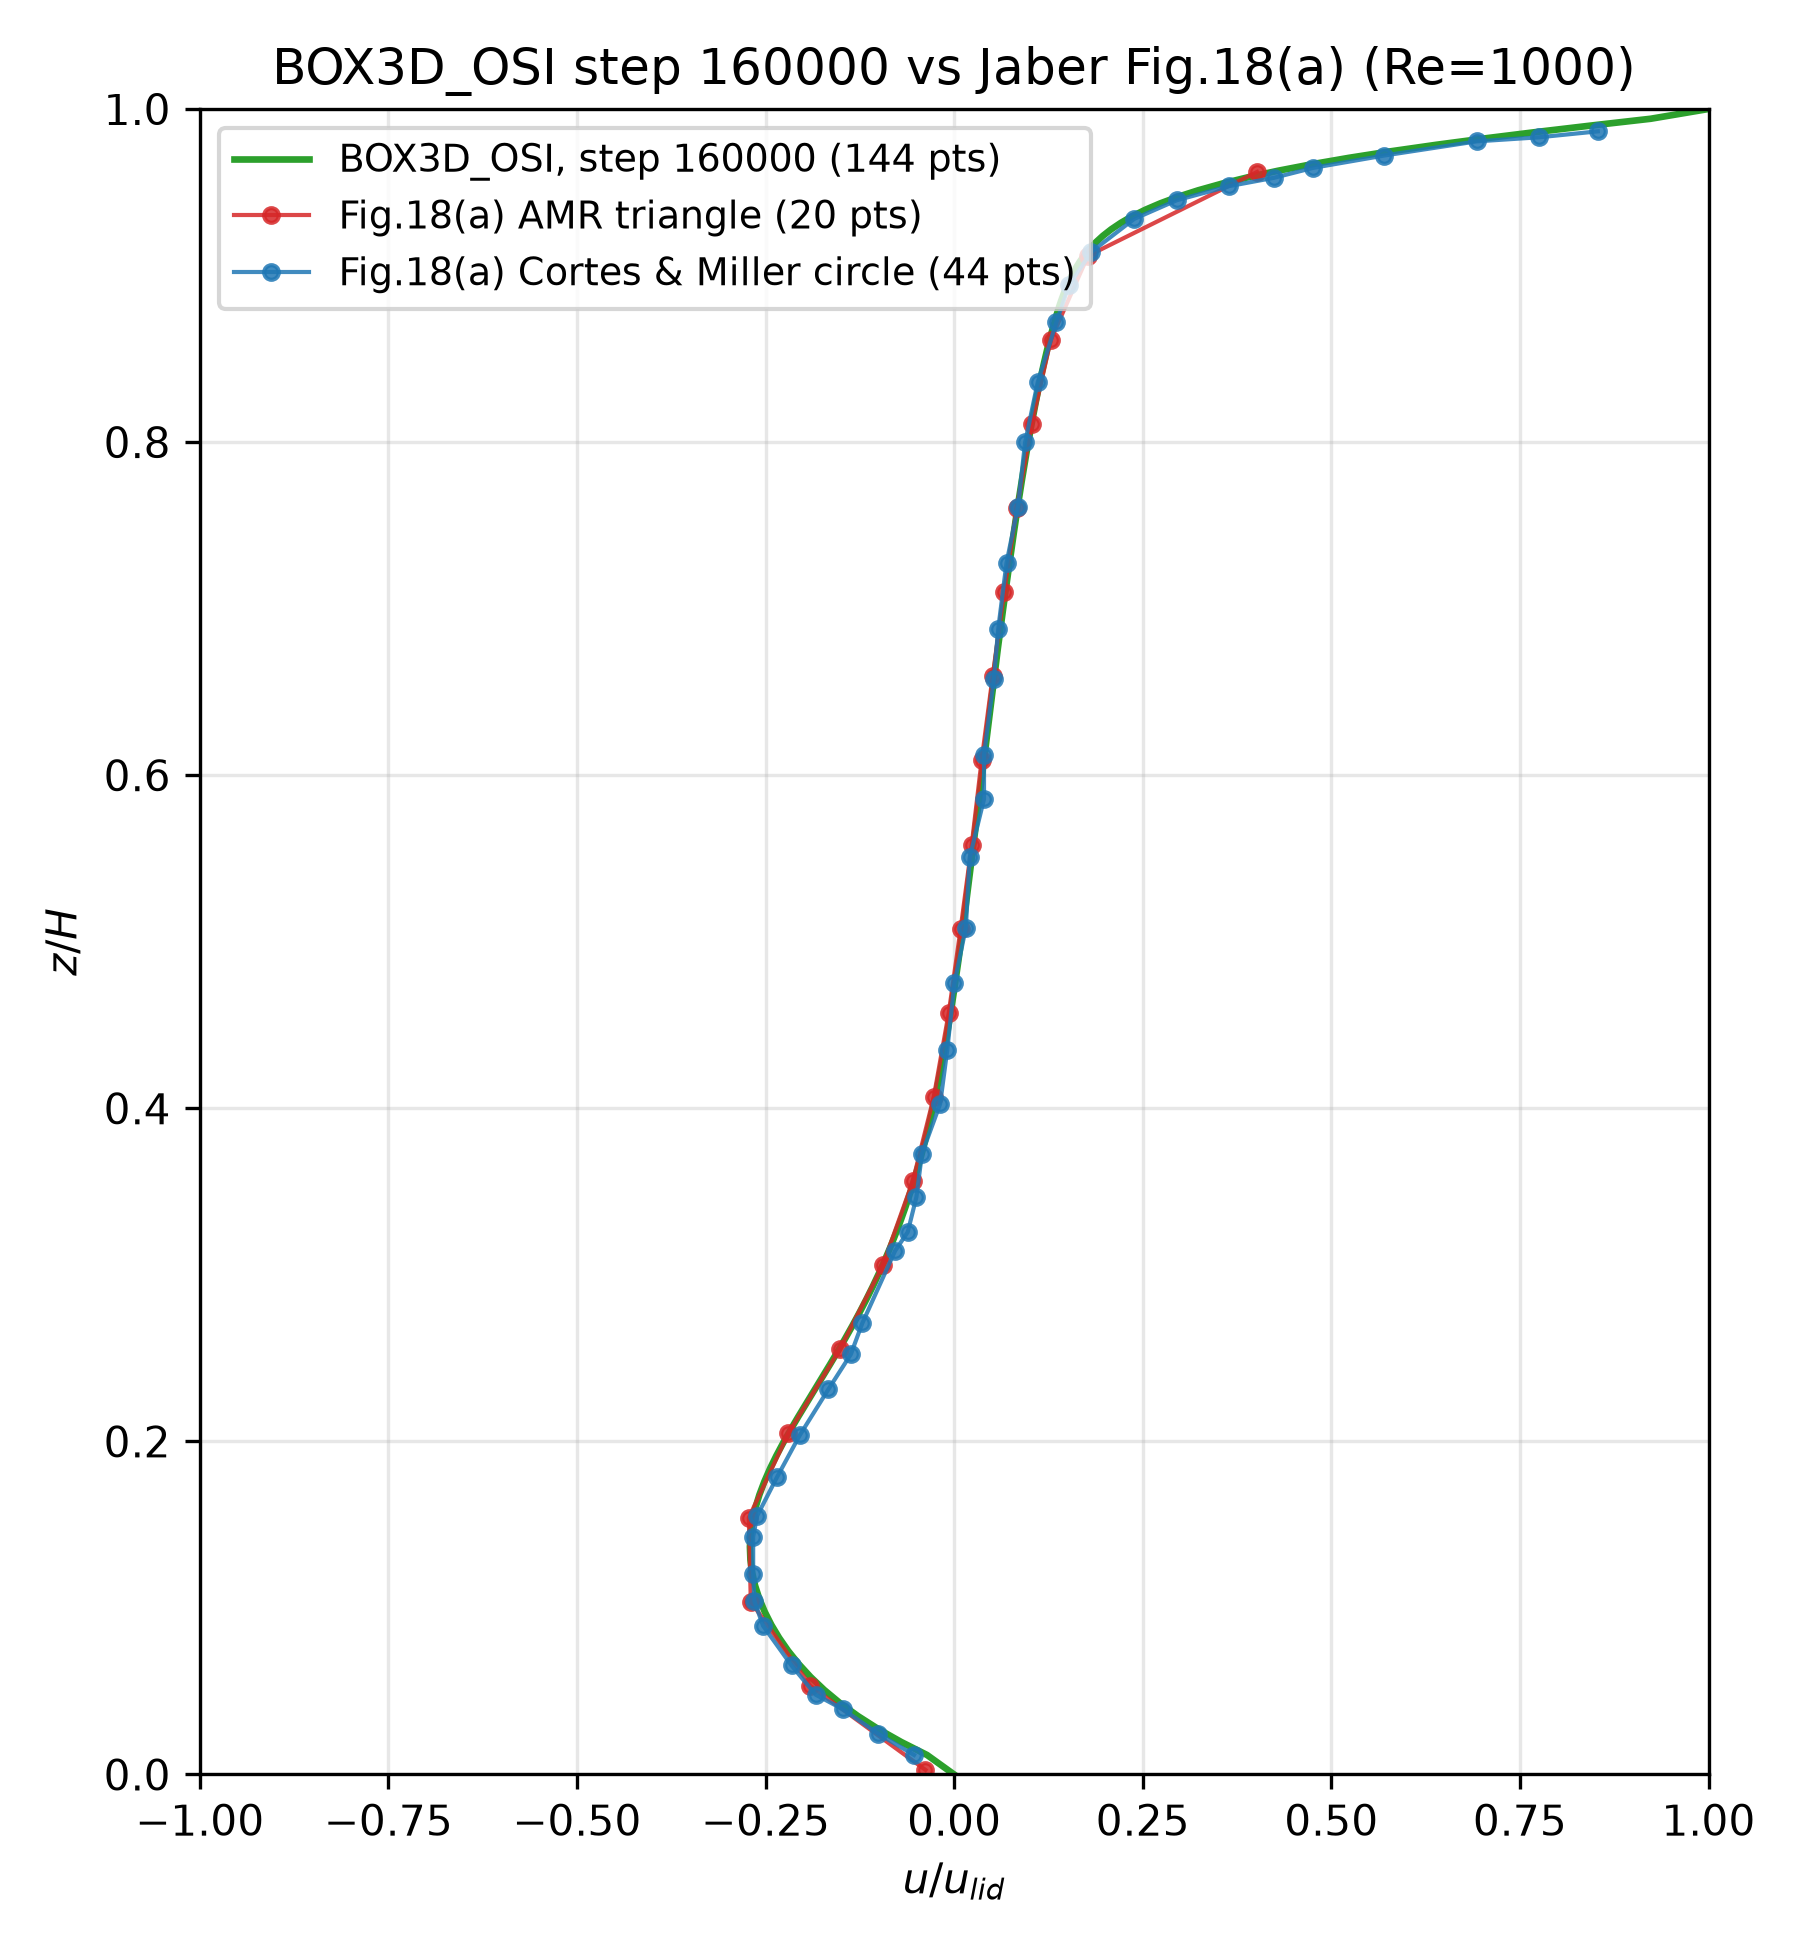
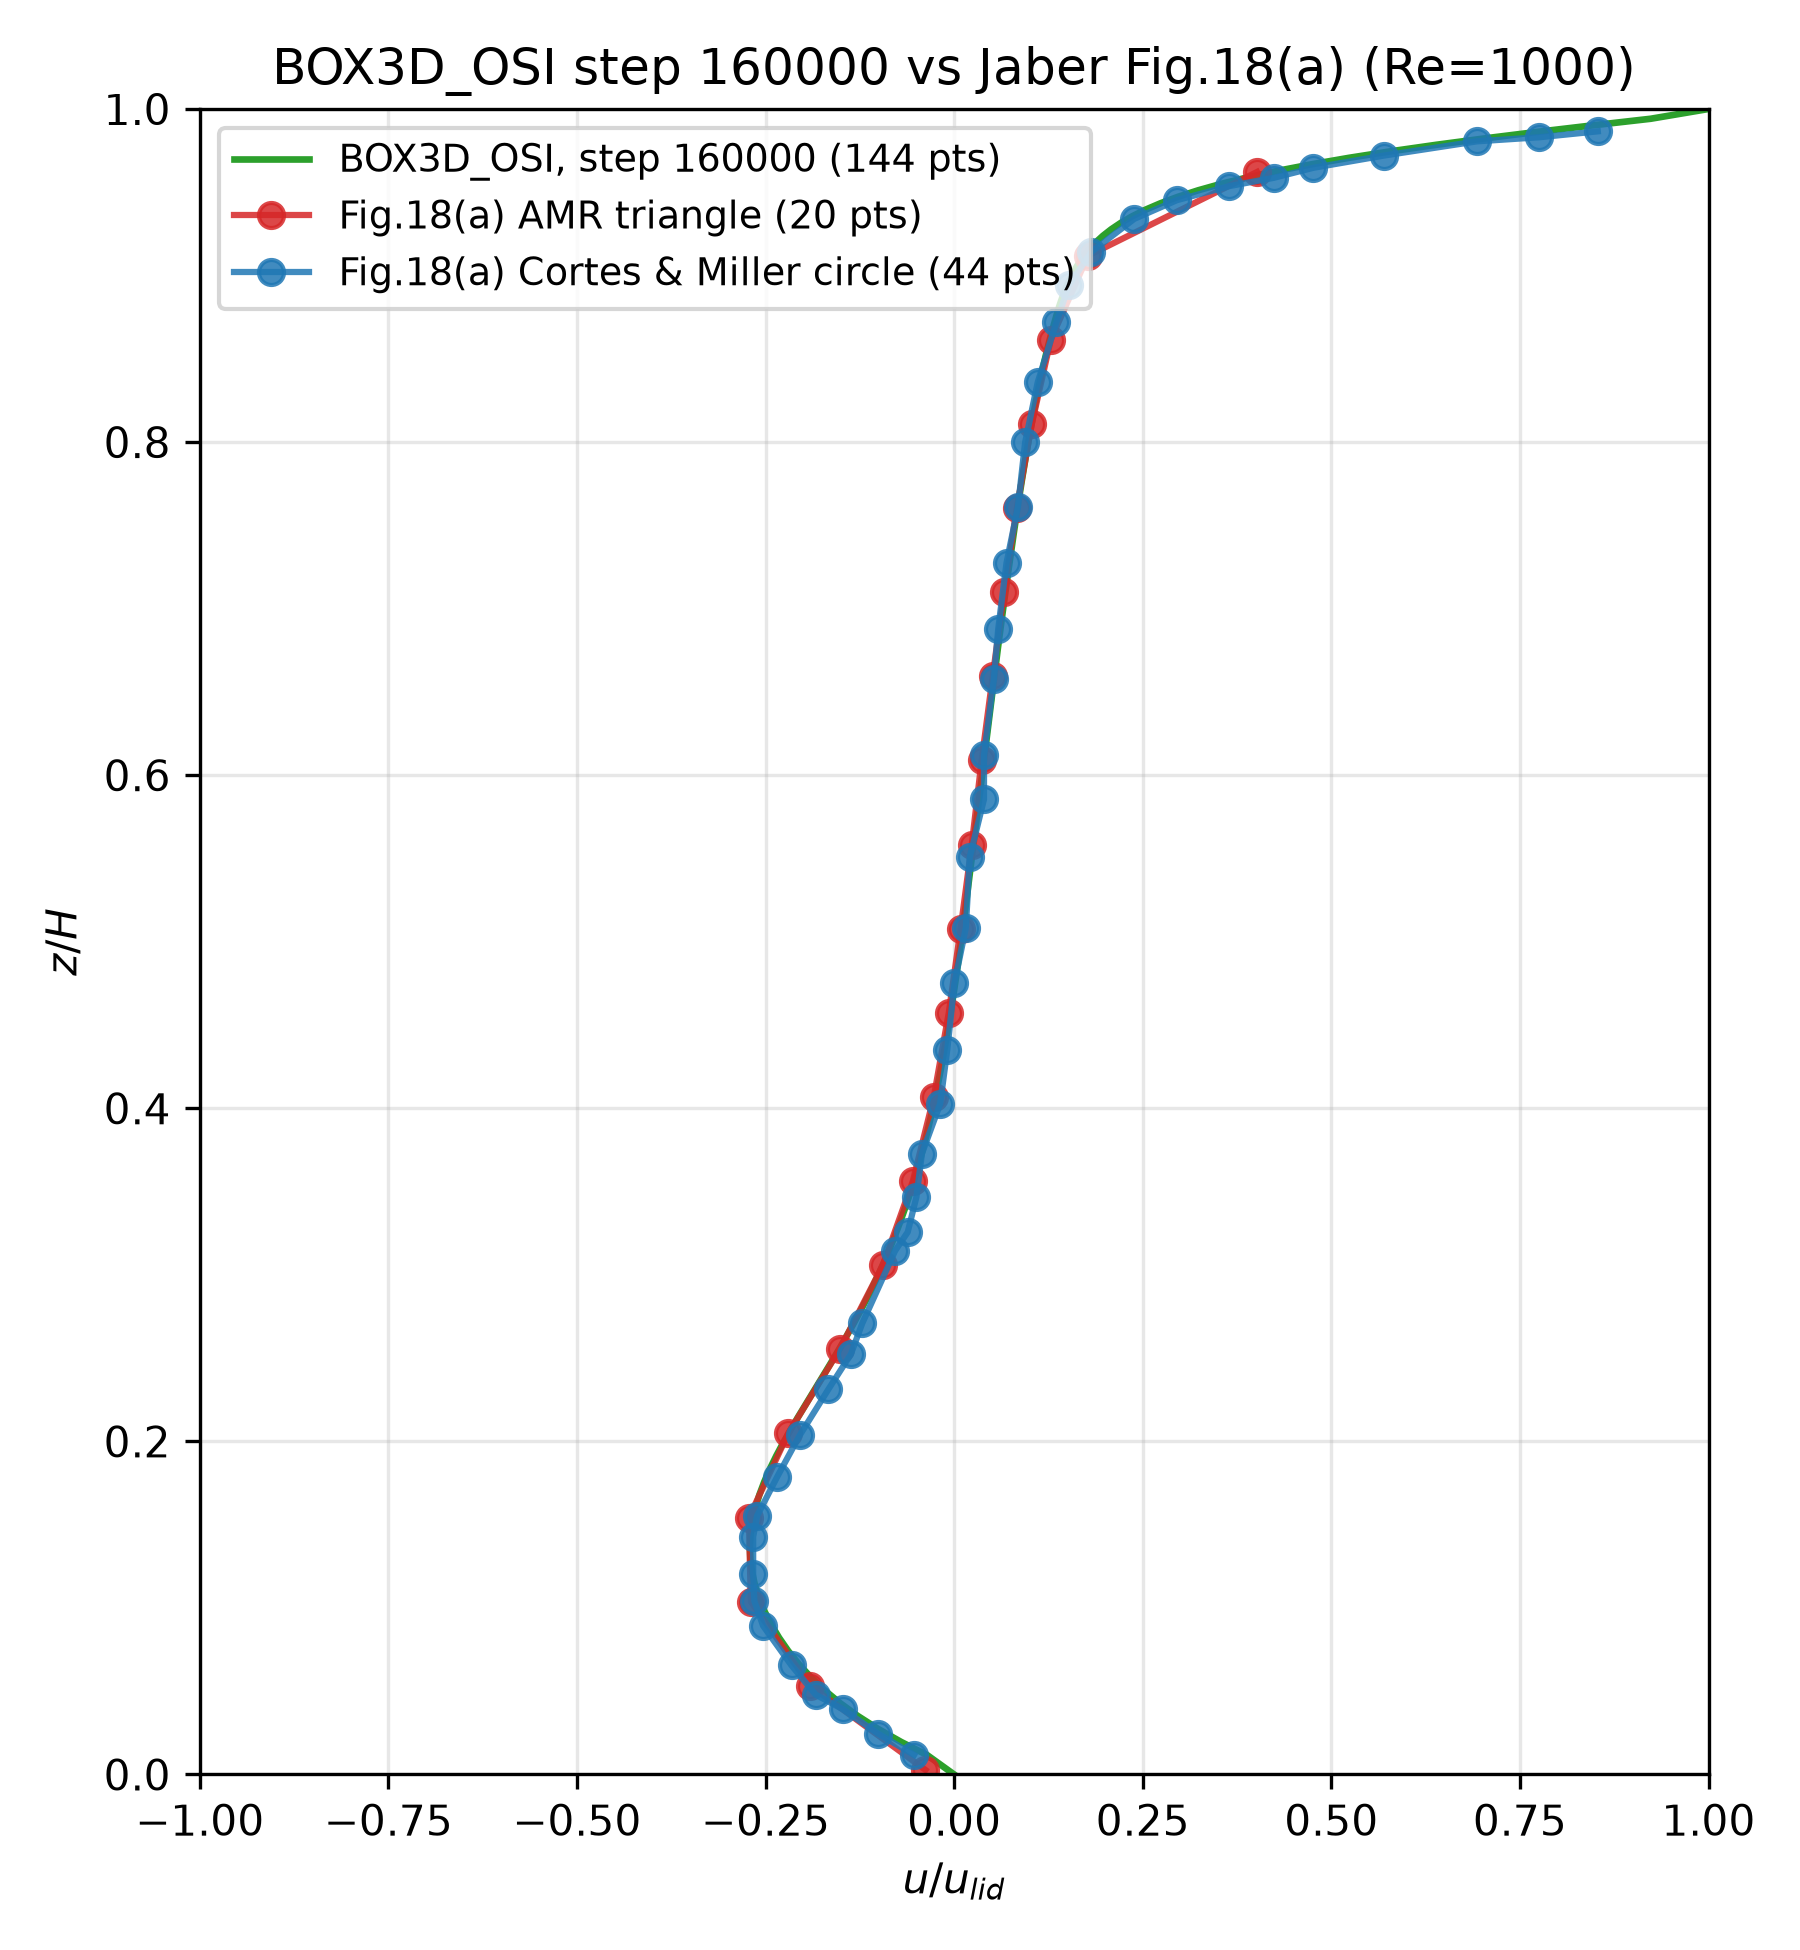
before codex

diff --git a/projects/3Dcases/Computing_performance_test/BOX3D_OSI/data_post_processing/plot_Re3200_3D_overlap_288000_fig18b.py b/projects/3Dcases/Computing_performance_test/BOX3D_OSI/data_post_processing/plot_Re3200_3D_overlap_288000_fig18b.py
@@ -116,8 +116,8 @@ for name, style in REFERENCE_STYLE.items():
     points = references[name]
     z_h, u_ulid = zip(*points)
     ax.plot(
-        u_ulid, z_h, linestyle="-", linewidth=0.9,
-        color=style["color"], marker=style["marker"], markersize=4.2,
+        u_ulid, z_h, linestyle="-", linewidth=1.4,
+        color=style["color"], marker=style["marker"], markersize=6.5,
         fillstyle=style["fillstyle"], markeredgewidth=1.0, alpha=0.9,
         label=f"{style['label']} ({len(points)} pts)",
     )

diff --git a/projects/3Dcases/Computing_performance_test/BOX3D_OSI/data_post_processing/plot_overlap_160000_fig18a.py b/projects/3Dcases/Computing_performance_test/BOX3D_OSI/data_post_processing/plot_overlap_160000_fig18a.py
@@ -76,7 +76,7 @@ for series, style in REF_STYLE.items():
         continue
     pts = refs[series]
     z_h, u_ul = zip(*pts)
-    ax.plot(u_ul, z_h, "-o", color=style["color"], ms=3.5, lw=1.0,
+    ax.plot(u_ul, z_h, "-o", color=style["color"], ms=6.0, lw=1.5,
             alpha=0.85, label=f"{style['label']} ({len(pts)} pts)")
 
 ax.set_xlabel(r"$u/u_{lid}$")

diff --git a/projects/3Dcases/Computing_performance_test/BOX3D_OSI/docs/MLUPS记录.md b/projects/3Dcases/Computing_performance_test/BOX3D_OSI/docs/MLUPS记录.md
@@ -25,13 +25,13 @@ job `586265` 完成 64 个 1000 步窗口（step 64000），总耗时为 5188.91
 `step... perf(s)` 窗口累加得到；总耗时累加的是 `total`，不是日志末尾包含
 初始化、plot 和 checkpoint 写出的 `Total Time`。MLUPS 取最后一个完整窗口的实测值。
 
-| 日志 | 模式 | Re | 步数范围 | MLUPS 窗口 | 碰撞模型 | 网格块大小 | 插值 | 平均 | 碰撞 | 迁移 | 通信 | 边界处理 | 总耗时 | `MLUPS_solv` | `MLUPS_total` |
-| --- | --- | ---: | ---: | ---: | --- | --- | ---: | ---: | ---: | ---: | ---: | ---: | ---: | ---: | ---: |
-| 596154 | OSI | 3200 | 1--96000 | 1000 | BGK | 32 to 128 | 873.25 | 395.72 | 2356.23 | 0.00 | 418.02 | 394.03 | 4563.99 | 1139.11 | 1109.46 |
-| 596532 | OSI | 3200 | 96001--192000 | 1000 | BGK | 32 to 128 | 911.75 | 399.99 | 2386.82 | 0.00 | 429.18 | 401.39 | 4669.21 | 1127.61 | 1091.74 |
-| 596888 | OSI | 3200 | 192001--288000 | 1000 | BGK | 32 to 128 | 903.29 | 407.27 | 2391.60 | 0.00 | 429.31 | 408.81 | 4680.71 | 1128.94 | 1088.70 |
-| 596890 | A-B | 1000 | 1--128000 | 3200 | BGK | 32 to 128 | 297.88 | 208.43 | 1952.15 | 2055.02 | 300.68 | 382.18 | 5273.57 | 949.78 | 935.75 |
-| 596891 | OSI | 1000 | 1--128000 | 3200 | BGK | 32 to 128 | 944.85 | 449.75 | 2265.76 | 0.00 | 302.41 | 438.81 | 4522.74 | 1117.18 | 1086.32 |
+| 日志   | 模式 |   Re |       步数范围 | MLUPS 窗口 | 碰撞模型 | 网格块大小 |   插值 |   平均 |    碰撞 |    迁移 |   通信 | 边界处理 |  总耗时 | `MLUPS_solv` | `MLUPS_total` |
+| ------ | ---- | ---: | -------------: | ---------: | -------- | ---------- | -----: | -----: | ------: | ------: | -----: | -------: | ------: | -------------: | --------------: |
+| 596154 | OSI  | 3200 |       1--96000 |       1000 | BGK      | 32 to 128  | 873.25 | 395.72 | 2356.23 |    0.00 | 418.02 |   394.03 | 4563.99 |        1139.11 |         1109.46 |
+| 596532 | OSI  | 3200 |  96001--192000 |       1000 | BGK      | 32 to 128  | 911.75 | 399.99 | 2386.82 |    0.00 | 429.18 |   401.39 | 4669.21 |        1127.61 |         1091.74 |
+| 596888 | OSI  | 3200 | 192001--288000 |       1000 | BGK      | 32 to 128  | 903.29 | 407.27 | 2391.60 |    0.00 | 429.31 |   408.81 | 4680.71 |        1128.94 |         1088.70 |
+| 596890 | A-B  | 1000 |      1--128000 |       3200 | BGK      | 32 to 128  | 297.88 | 208.43 | 1952.15 | 2055.02 | 300.68 |   382.18 | 5273.57 |         949.78 |          935.75 |
+| 596891 | OSI  | 1000 |      1--128000 |       3200 | BGK      | 32 to 128  | 944.85 | 449.75 | 2265.76 |    0.00 | 302.41 |   438.81 | 4522.74 |        1117.18 |         1086.32 |
 
 jobs `596890` 和 `596891` 使用同一可执行文件、单 GPU、三层动态 AMR、
 `regrid_int=32` 且关闭 plot，可作为当前 Re=1000 的直接 A-B/OSI 对照。按全程
